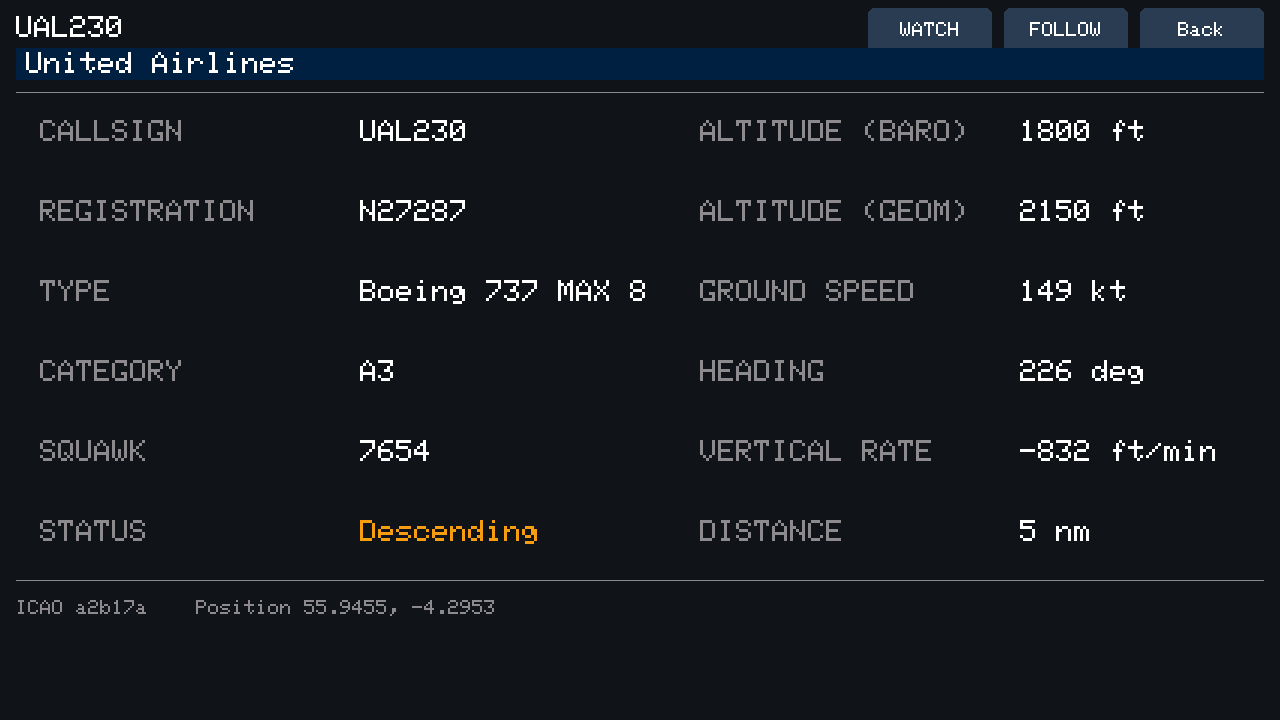
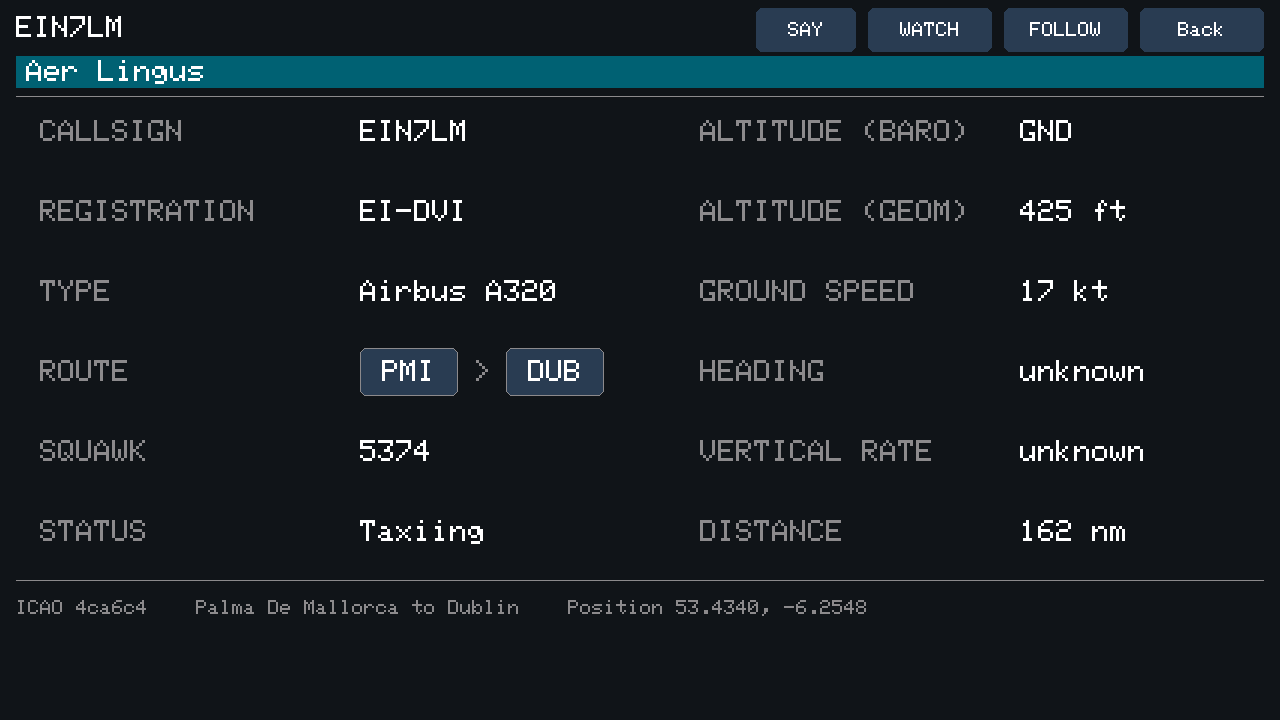
Version 1.5.0: the README's replays in 3D and fresh screenshots
- FIRMWARE_VERSION "1.5.0".
- The README opens with what 1.5 brings - the flight flown live in 3D by
  a software engine written for the ESP32-P4 - and tells of replays in
  3D, true heights, and the airfield pack's own download link and the
  v1.5.0 user manual's.
- The table, details, radar, zoom, replay, alerts and settings captured
  again on v1.5.0, with the filter and a replay in 3D added - the
  settings' network name and address placeholders, as before.

Claude-Session: https://claude.ai/code/session_0119BiqY2Y1XPuv2pffxTzcW

diff --git a/include/config.h b/include/config.h
@@ -1,7 +1,7 @@
 #pragma once
 
 // The release this is, shown on the settings screen and logged at boot.
-#define FIRMWARE_VERSION "1.5.0-beta"
+#define FIRMWARE_VERSION "1.5.0"
 
 constexpr double DEFAULT_LAT = 55.9297;
 constexpr double DEFAULT_LON = -4.4664;

diff --git a/README.md b/README.md
@@ -2,22 +2,25 @@
 
 A C++ rewrite of [Overhead](https://github.com/craigdianesmith-glitch/tab5-adsb-flight-tracker-micropython), a live ADS-B flight tracker for the [M5Stack Tab5](https://docs.m5stack.com/en/core/Tab5). Built on PlatformIO + Arduino + M5Unified/M5GFX (no LVGL), with genuine multithreading: the network fetch runs on its own FreeRTOS task pinned to core 0, so the UI never blocks - the thing that wasn't possible on the MicroPython version, where sockets couldn't be created from a secondary thread at all.
 
+**New in 1.5: the flight in 3D.** Follow any aircraft and the Tab5 flies it live in 3D - at its airport's real terminals, taxiways, stands and tower, from the OpenStreetMap airfield pack, under the real sun, with the sound of its engines - drawn by a software 3D engine written for the ESP32-P4, which has no 3D hardware: prepared on one core and drawn in bands on both, in the chip's own fast memory, its inner loops in the P4's PIE vector instructions, at 40 to 70 frames a second. Recorded flights replay in 3D too. We know of no other flight tracker that does this on a microcontroller. See [The 3D view](#the-3d-view).
+
 ![Overhead's splash screen at boot: an airliner taking off down the runway at the viewer, under the OVERHEAD logo](docs/screenshots/splash.png)
 
 | | |
 | --- | --- |
 | ![The 3D view: an Emirates A380 at 1,000ft over London at sunset, Heathrow's approach lights ahead and the traffic on the ground labelled, in FLY PAST](docs/screenshots/3d-sunset.png) | ![The 3D view: the A380 just down on Heathrow's 27L at sunset, smoke off its main wheels, the runway and taxiway lights lit](docs/screenshots/3d-touchdown.png) |
-| ![The table of aircraft overhead](docs/screenshots/table.png) | ![The radar around Glasgow, with the Clyde and its lochs drawn under the traffic](docs/screenshots/radar.png) |
+| ![The table of aircraft overhead, sorted by status with a filter on](docs/screenshots/table.png) | ![The radar 20nm around Heathrow after a free look, with its navaids and Surrey named under the traffic](docs/screenshots/radar.png) |
 | ![Free look: a line dragged 36nm out of the plot, which is redrawn at a range that takes it with its coast and airports alone](docs/screenshots/freelook-drag.png) | ![And let go: the radar centred there, with the traffic around Edinburgh](docs/screenshots/freelook.png) |
-| ![Heathrow's airport zoom, with runway 27L in use](docs/screenshots/zoom.png) | ![Heathrow's card: its tower, ground, delivery, radar and ATIS frequencies beside a radar on its mast](docs/screenshots/card.png) |
-| ![The detail screen for one flight, with WATCH and FOLLOW](docs/screenshots/detail.png) | ![Following a flight on the radar, with its height charted on the left](docs/screenshots/follow.png) |
-| ![Following an arrival in Heathrow's zoom, on short final for runway 27L](docs/screenshots/follow-zoom.png) | ![A recording of a followed flight, ready to play back](docs/screenshots/replay.png) |
+| ![Heathrow's airport zoom at night, with runway 27L in use and the control tower marked](docs/screenshots/zoom.png) | ![Heathrow's card: its tower, ground, delivery, radar and ATIS frequencies beside a radar on its mast](docs/screenshots/card.png) |
+| ![The detail screen for one flight, its route as buttons, with SAY, WATCH and FOLLOW](docs/screenshots/detail.png) | ![Following a flight on the radar, with its height charted on the left](docs/screenshots/follow.png) |
+| ![Following an arrival in Heathrow's zoom, on short final for runway 27L](docs/screenshots/follow-zoom.png) | ![A recording of a followed Typhoon, ready to play back, with 3D under Export](docs/screenshots/replay.png) |
+| ![The recording replayed in 3D: the Typhoon from below against the morning sun as it was then, the replay's controls under the picture](docs/screenshots/replay-3d.png) | ![The filter: civil traffic only, ground transmitters hidden](docs/screenshots/filter.png) |
 | ![A recording exported to video, the aircraft's climb-out charted with its take-off](docs/screenshots/export.png) | ![The recordings on the card, and the videos made from them](docs/screenshots/recordings.png) |
 | ![Sharing over WiFi, with a QR code to the page](docs/screenshots/share.png) | ![The settings screen](docs/screenshots/settings.png) |
-| ![The alerts and recording settings](docs/screenshots/alerts.png) | ![Help, on how to use the tracker](docs/screenshots/help.png) |
+| ![The alerts, voice and recording settings, with auto-follow into 3D](docs/screenshots/alerts.png) | ![Help, on how to use the tracker](docs/screenshots/help.png) |
 | ![About: the version, a disclaimer and the credits](docs/screenshots/about.png) | |
 
-Captured from the device with `tools/screenshot.py` - see [Screenshots](#screenshots). The address and network name on the settings and share screens are placeholders. Taken on v1.4.0, but for the detail, alerts, export and share screens, which are as they were on v1.3.1 and haven't changed since, and the two 3D pictures, which are 1.5.0-beta's, from its test scene of an Emirates A380 landing at Heathrow.
+Captured from the device with `tools/screenshot.py` - see [Screenshots](#screenshots). The address and network name on the settings and share screens are placeholders. The table, details, radar, zoom, replay, replay in 3D, filter, settings and alerts were taken on v1.5.0; the two 3D pictures at the top are from its test scene of an Emirates A380 landing at Heathrow; the rest on v1.4.0, or the export and share screens on v1.3.1, unchanged since.
 
 ## Hardware
 
@@ -207,11 +210,15 @@ With auto-record on, following starts a recording - taking over from one an aler
 
 ZOOM IN and ZOOM OUT move the camera nearer or further, but for CINEMA's. SOUND turns the engines' noise on or off: made as it plays for each kind of engine - a fan's whine and the roar behind it, a turboprop's drone, a helicopter's chop - quieter and more muffled further off, with the Doppler as it passes a camera standing still (`src/engine_noise.cpp`). The airport's clearances are spoken as they are in the zoom.
 
+Aircraft are placed at their true heights: from the GNSS height a report gives, less the geoid, or else its pressure altitude put right by the day's pressure, worked out from the aircraft around that give both - the labels keep the pressure altitude every screen shows. On a day of low pressure the traffic used to stand a few hundred feet over the airfield, and a landing's last seconds came down as a dive onto the runway.
+
+**In a replay** too: **3D**, under Export on the replay screen, opens the 3D view of the aircraft the recording was following, and moves on as the recording follows another; any other aircraft is a tap away, from **3D** on its details. The strip under the picture holds the replay's controls - Play or Pause, a minute back or on, 1x or 4x, and a bar to tap anywhere along - with the flight on a line above them, at the recording's time in UTC. The view runs on the recording's clock: paused, it stands still, the engines quiet and the camera free to turn; a jump starts the shot afresh. A replay's heights are put right by its own day's pressure, worked out from its recorded aircraft, not today's. Videos are made from the radar replay still: the 3D view draws straight to the panel, past the canvas the encoder reads.
+
 Each frame is prepared on one of the P4's cores and drawn in bands on both, its inner loops in the P4's PIE vector instructions, and each band is turned into the portrait panel by the PPA while the next is drawn. Live at Glasgow, with its airfield and traffic, it runs at 44 to 70 frames a second.
 
 ### The airfield pack
 
-The firmware knows every airport's runways, from OurAirports, and with those alone the 3D view at an airport is a basic one: the runways, their paint, lights and approach lights, and a line in amber under the picture saying why there is no more. The rest - taxiways and their centrelines, aprons and stands, holding points, buildings at their heights, windsocks and the control tower - is in `airfields.bin`, the airfield pack: 3,214 airfields from [OpenStreetMap](https://www.openstreetmap.org/copyright), 14.7MB, more than the firmware's flash has room for. It is on each release's Assets; copied into an `overhead` folder at the top of a FAT32 microSD card, it is read an airport at a time as the 3D view opens there, in about a fifth of a second. With it, a followed aircraft taxis along the real taxiways to and from its runway, aircraft parked at a stand are shown on it, nose in, and the airport zoom marks the control tower. `tools/gen_airfields.py` builds it from the OpenStreetMap planet. The [user guide](https://github.com/craigdianesmith-glitch/tab5-adsb-flight-tracker-cpp/releases/download/v1.5.0-beta/Overhead-v1.5.0-beta-User-Guide.pdf), a PDF on the release, takes a beginner through putting it on a card.
+The firmware knows every airport's runways, from OurAirports, and with those alone the 3D view at an airport is a basic one: the runways, their paint, lights and approach lights, and a line in amber under the picture saying why there is no more. The rest - taxiways and their centrelines, aprons and stands, holding points, buildings at their heights, windsocks and the control tower - is in `airfields.bin`, the airfield pack: 3,214 airfields from [OpenStreetMap](https://www.openstreetmap.org/copyright), 14.7MB, more than the firmware's flash has room for. It is on each release's Assets - v1.5.0's is [https://github.com/craigdianesmith-glitch/tab5-adsb-flight-tracker-cpp/releases/download/v1.5.0/airfields.bin](https://github.com/craigdianesmith-glitch/tab5-adsb-flight-tracker-cpp/releases/download/v1.5.0/airfields.bin); copied into an `overhead` folder at the top of a FAT32 microSD card, it is read an airport at a time as the 3D view opens there, in about a fifth of a second. With it, a followed aircraft taxis along the real taxiways to and from its runway, aircraft parked at a stand are shown on it, nose in, and the airport zoom marks the control tower. `tools/gen_airfields.py` builds it from the OpenStreetMap planet. The [user manual](https://github.com/craigdianesmith-glitch/tab5-adsb-flight-tracker-cpp/releases/download/v1.5.0/Overhead-v1.5.0-User-Manual.pdf), a PDF on the release, takes a beginner through putting it on a card.
 
 ## Alerts
 
@@ -236,7 +243,7 @@ A recording carries on in a new file - its next part - every 4 hours or 4MB, whi
 
 The card is write-tested at boot - written, read back and deleted - since a locked or failing card mounts happily and then loses every recording. Without a usable one, REC, Replays and the auto-record switch are greyed out; a tap on either button has another look for one, as does auto-record whenever an alert would start a recording.
 
-**Replays** is a button in three places - the table's header, an arrow round a play triangle beside the radar's icon, and the radar's and the airport zoom's button columns, under REC - and its Back goes back to whichever it was opened from. It used to be on the radar alone, which was two taps from the table, and three once the radar had been left on an airport's zoom, which is where it comes back to. From the zoom, the zoom is left as its own Back leaves it and opened again on the way back, unless something is being followed, when it is the radar centred on that. The header's opens the list with or without a card, since the list says when there is none; the other two are greyed out without one, with REC. It lists recordings newest first, seven to a page, with what started each, its range and size, and which speeds it has been exported at. A delete takes two taps, and takes the recording's videos with it - which it says before the second. Playback draws the plot as it is live, with ten-minute trails - unless **replay tracks** is off on the display page - each contact gliding between polls rather than jumping; play and pause, a minute either way, a bar to tap anywhere along, and 1x, 4x, 16x or 64x. A tap on a blip opens that aircraft's details as they were at that moment.
+**Replays** is a button in three places - the table's header, an arrow round a play triangle beside the radar's icon, and the radar's and the airport zoom's button columns, under REC - and its Back goes back to whichever it was opened from. It used to be on the radar alone, which was two taps from the table, and three once the radar had been left on an airport's zoom, which is where it comes back to. From the zoom, the zoom is left as its own Back leaves it and opened again on the way back, unless something is being followed, when it is the radar centred on that. The header's opens the list with or without a card, since the list says when there is none; the other two are greyed out without one, with REC. It lists recordings newest first, seven to a page, with what started each, its range and size, and which speeds it has been exported at. A delete takes two taps, and takes the recording's videos with it - which it says before the second. Playback draws the plot as it is live, with ten-minute trails - unless **replay tracks** is off on the display page - each contact gliding between polls rather than jumping; play and pause, a minute either way, a bar to tap anywhere along, and 1x, 4x, 16x or 64x. A tap on a blip opens that aircraft's details as they were at that moment, with **3D** on them to watch it in the 3D view; **3D** under Export does the same for the aircraft the recording follows (see [The 3D view](#the-3d-view)).
 
 ## Video export
 
